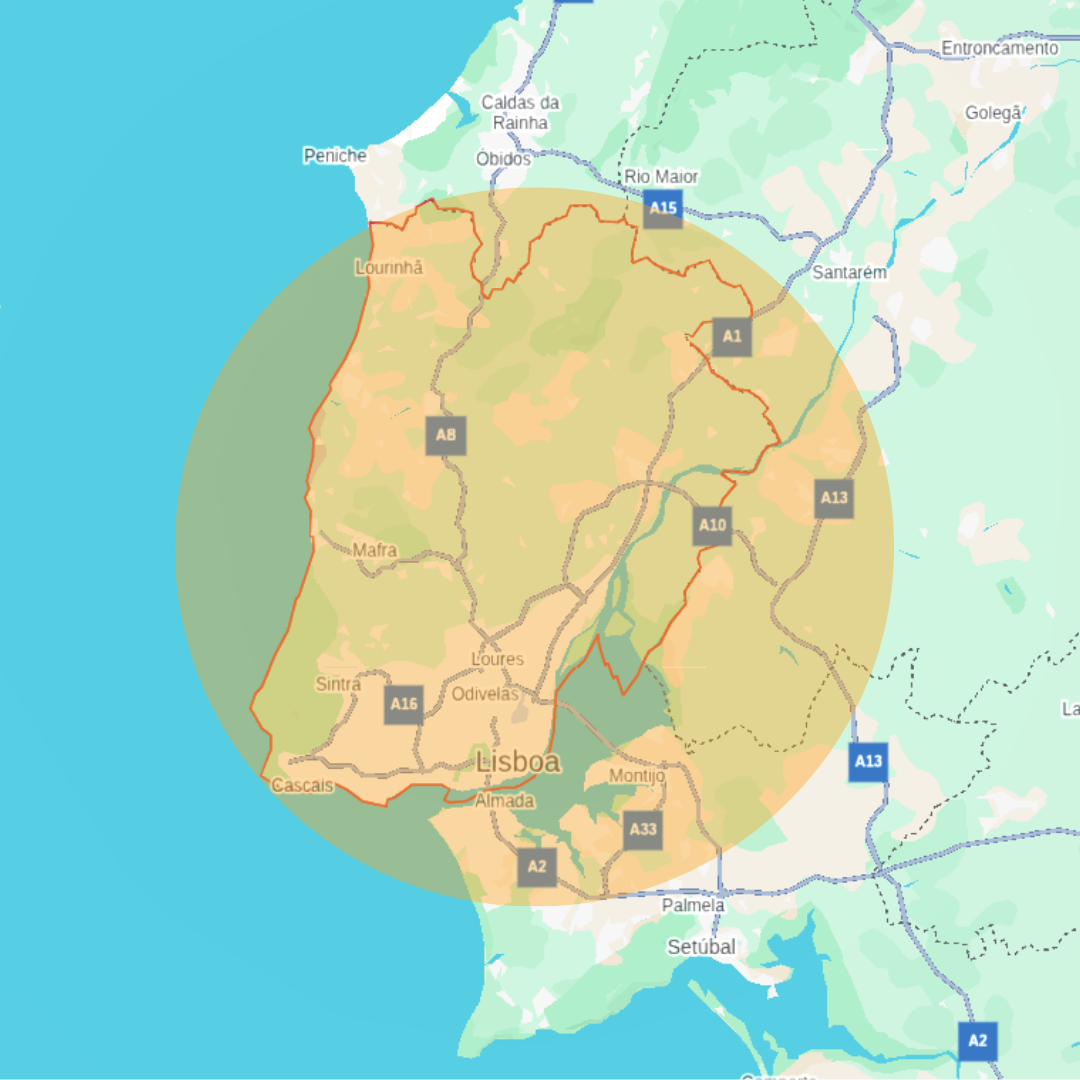
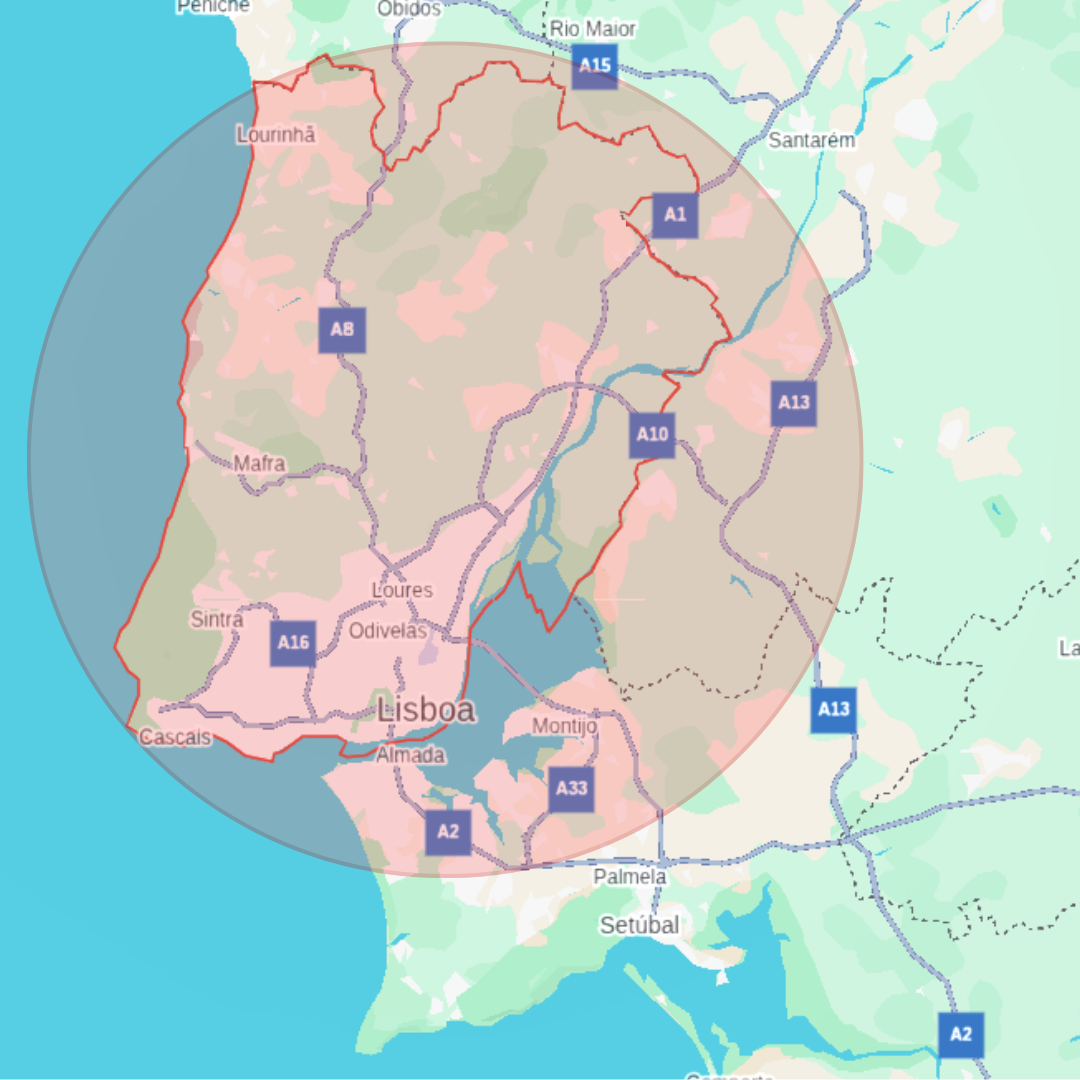
copy

diff --git a/src/pages/index.js b/src/pages/index.js
@@ -35,7 +35,7 @@ const WhyUs = () => {
 
                 <StaticImage src="../images/technician.png" />
             </div>
-            <div class="section-container">
+            <div class="section-container btm-padding-section">
                 <div class="features">
                     <div class="feature">
                         <Svg name="24-hours" />
@@ -82,7 +82,7 @@ const USPs = () => {
 
 const Services = () => {
     return (
-        <section id="servicos" class="section section-alt">
+        <section id="servicos" class="section section-alt btm-padding-section">
             <div class="section-container">
                 <div class="services">
                     <div class="service">
@@ -113,7 +113,7 @@ const Services = () => {
 }
 const ServiceArea = () => {
     return (
-        <section class="section">
+        <section id="area-servico" class="section">
             <div class="img-section-container">
                 <h2 class="section-title">Area de Serviço</h2>
                 <StaticImage src="../images/area-servico.png" style={{ marginBottom: "2rem" }} imgClassName="service-area-img" className="service-area-img" />

diff --git a/src/styles/global.css b/src/styles/global.css
@@ -16,6 +16,7 @@ body {
 	--bottom-cta-height: 67px;
 	--top-navbar-height: 66px;
 	--speed-alert-bg-color: #C62828;
+	--section-top-offset: calc(var(--top-navbar-height) + 1rem);
 }
 
 .container {
@@ -26,8 +27,10 @@ body {
 
 /* Sections */
 .section {
-	padding: 5rem 0;
+	padding-top: var(--section-top-offset, 0);
+	margin-top: -var(--section-top-offset, 0);
 }
+
 
 
 .section-alt {
@@ -41,6 +44,10 @@ body {
 	display: flex;
 	flex-direction: column;
 	align-items: center;
+}
+
+.btm-padding-section {
+	padding-bottom: var(--top-navbar-height);
 }
 
 .img-section-container {
@@ -160,7 +167,7 @@ body {
 	align-items: flex-start;
 	display: grid;
 	grid-template-columns: repeat(2, 1fr);
-
+	margin: 0 10rem;
 }
 
 .service-area-img {
@@ -180,10 +187,8 @@ body {
 	display: none;
 }
 
+
 @media (max-width: 768px) {
-	.section {
-		padding: 3rem 0;
-	}
 
 	.section-title {
 		font-size: 1.75rem;
@@ -233,6 +238,15 @@ body {
 		align-items: center;
 		display: flex;
 		flex-direction: column;
+		margin: 0;
+	}
 
+	.img-section-container {
+		padding: 0;
+	}
+
+	.service-area-img {
+		max-width: 800px;
+		max-height: 800px;
 	}
 }

diff --git a/src/components/ContactSection.js b/src/components/ContactSection.js
@@ -40,11 +40,11 @@ const ContactSection = () => {
   };
 
   return (
-    <section id="contact" class="section">
+    <section id="contact" class="section btm-padding-section">
       <div class="section-container contact-section">
         <div class="contact-form-container">
           <h2 class="section-title">Contacte-nos</h2>
-          <p class="section-text">In a hurry? Leave us a message and we'll get back to you as quickly as possible</p>
+          <p class="section-text">Tem pressa? Deixe-nos uma mensagem e entraremos em contacto o mais breve possível</p>
           {formStatus === 'success' && (
             <div className="contact-form">
               <div className="message success">Obrigado! Entraremos em contacto em breve</div>

diff --git a/src/components/Navbar.js b/src/components/Navbar.js
@@ -17,8 +17,9 @@ const Menu = ({ home }) => {
 		<ul class="nav-menu" onClick={toggleMenu}>
 			<a href="#quem-somos" class="nav-link"><li>Quem Somos</li></a>
 			<a href="#servicos" class="nav-link"><li>Serviços</li></a>
-			<a href="#contact" class="nav-link"><li>Contacto</li></a>
 			<a href="#reviews" class="nav-link"><li>Avaliações</li></a>
+			<a href="#area-servico" class="nav-link"><li>Area de Serviço</li></a>
+			<a href="#contact" class="nav-link"><li>Contacto</li></a>
 		</ul>
 	)
 	else return (

diff --git a/src/components/BrandsSection.js b/src/components/BrandsSection.js
@@ -6,7 +6,7 @@ import './BrandsSection.css';
 const BrandsSection = () => {
 
   return (
-    <section class="section">
+    <section class="section btm-padding-section">
       <div class="section-container">
         <h2 class="section-title">Trabalhamos com todas as principais marcas</h2>
         <div className="brand-grid">

diff --git a/src/components/HeroSection.css b/src/components/HeroSection.css
@@ -22,13 +22,14 @@
 .hero-title {
 	font-size: 2.5rem;
 	font-weight: 700;
-	margin-bottom: 1rem;
+	margin-bottom: 2.5rem;
 	line-height: 1.2;
 }
 
 .hero-img {
 	max-height: 300px;
 	max-width: 300px;
+	margin-bottom: 2.5rem;
 }
 
 .hero-subtitle {

diff --git a/src/components/SpeedAlertSection.css b/src/components/SpeedAlertSection.css
@@ -1,6 +1,7 @@
 .speed-alert {
 	background-color: var(--speed-alert-bg-color);
 	color: #fff;
+	padding: 3rem 0;
 }
 
 .speed-alert-text {

diff --git a/src/components/ReviewsSection.css b/src/components/ReviewsSection.css
@@ -1,5 +1,4 @@
 .reviews-section {
-	padding: 5rem 0;
 	background-color: #fff;
 }
 
